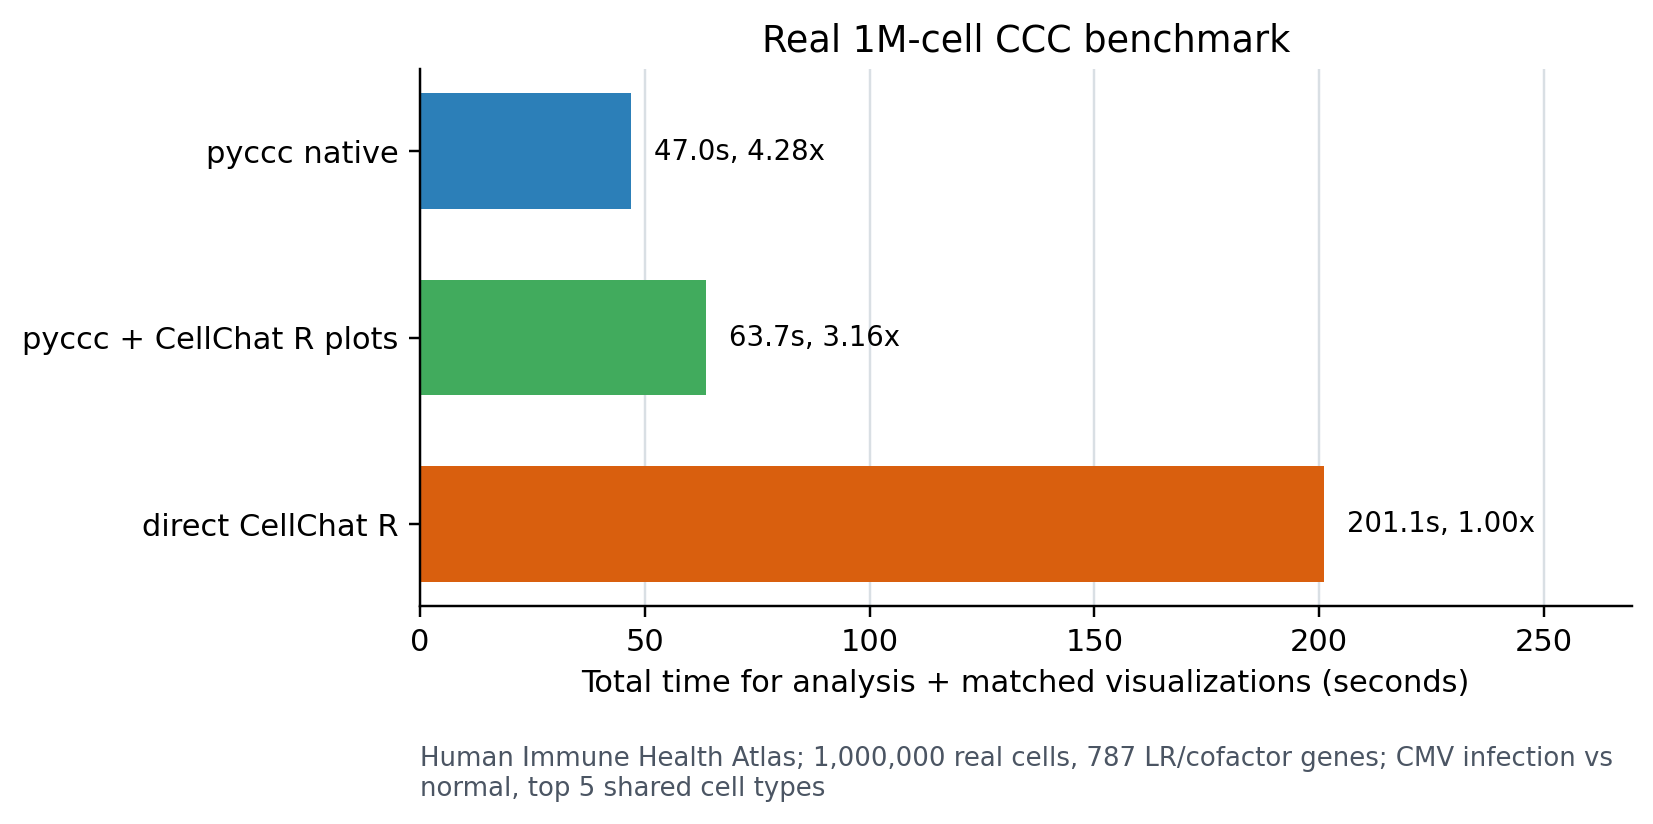
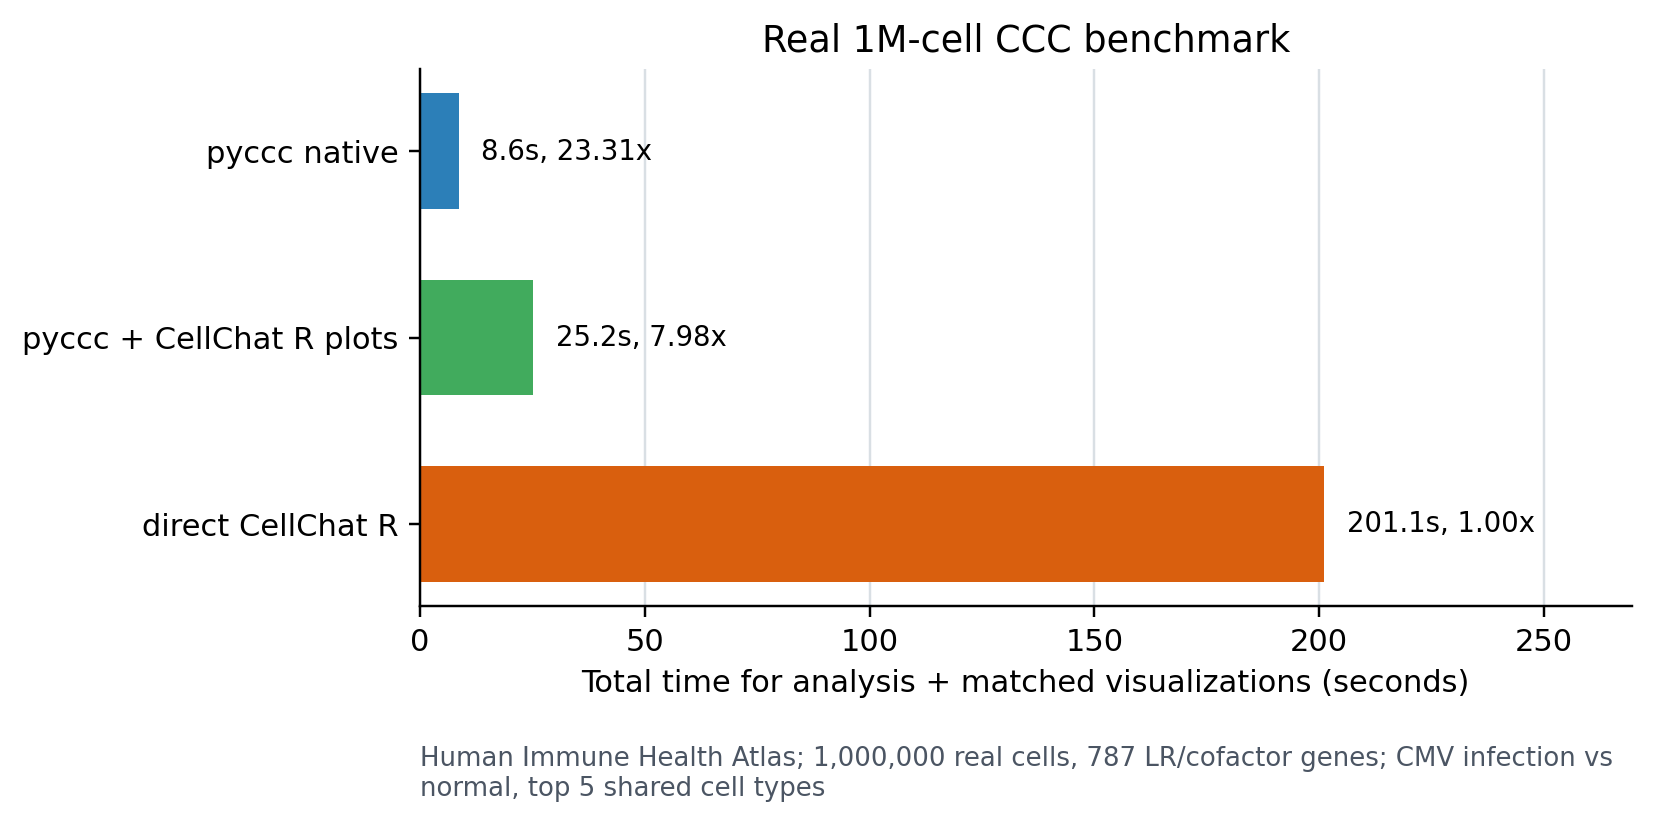
Optimize sparse tri-mean benchmark path

Changed region(s): [[0.2777, 0.091, 0.4936, 0.2731], [0.3085, 0.3337, 0.5554, 0.4854]]

diff --git a/examples/three_way_runtime_benchmark.py b/examples/three_way_runtime_benchmark.py
@@ -213,6 +213,7 @@ def parse_args() -> argparse.Namespace:
     parser.add_argument("--target-cells", type=int, default=1000000)
     parser.add_argument("--min-cells", type=int, default=25000)
     parser.add_argument("--n-groups", type=int, default=12, help="Number of shared groups to keep; use 0 to keep all shared groups.")
+    parser.add_argument("--n-jobs", type=int, default=1, help="Python worker count for pyccc permutation/downsampling paths.")
     parser.add_argument("--random-state", type=int, default=123)
     parser.add_argument("--allow-repeated-cells", action="store_true", help="Allow upsampling by repeating cells when target cells exceed the real filtered dataset size.")
     parser.add_argument("--skip-direct-cellchat", action="store_true")
@@ -252,7 +253,7 @@ def run_cellxgene_adaptive(args: argparse.Namespace, out_dir: Path) -> None:
         rows = run_three_way_for_adata(args, attempt_dir, adata, lr_db, lr_r, scale_label=f"cells_{adata.n_obs}")
         all_rows.append(rows)
         statuses = set(rows["status"].astype(str))
-        if statuses == {"ok"}:
+        if statuses <= {"ok", "skipped"} and "ok" in statuses:
             break
         attempt_cells //= 2
         del adata
@@ -354,7 +355,9 @@ def run_three_way_for_adata(
         ("direct_cellchat", run_direct_cellchat),
     ]:
         if strategy == "direct_cellchat" and args.skip_direct_cellchat:
-            rows.append(record_skip(strategy, scale_label, adata, "Skipped by --skip-direct-cellchat."))
+            row = record_skip(strategy, scale_label, adata, "Skipped by --skip-direct-cellchat.")
+            row.update(runtime_metadata(args))
+            rows.append(row)
             continue
         print(f"Running {strategy} on {adata.n_obs:,} cells", flush=True)
         try:
@@ -362,6 +365,7 @@ def run_three_way_for_adata(
         except Exception as exc:
             row = record_failure(strategy, scale_label, adata, exc)
             (out_dir / f"{strategy}_failure.txt").write_text(traceback.format_exc(), encoding="utf-8")
+        row.update(runtime_metadata(args))
         rows.append(row)
         pd.DataFrame(rows).to_csv(out_dir / "runtime_partial.tsv", sep="\t", index=False)
         gc.collect()
@@ -393,7 +397,9 @@ def run_pyccc_python(args, out_dir: Path, adata, lr_db, lr_path, input_dir, scal
     plot_start = time.perf_counter()
     save_pyccc_plots(out_dir / "plots", res_a, diff)
     plot_seconds = time.perf_counter() - plot_start
-    return record_ok("pyccc_python", scale_label, adata, time.perf_counter() - start, compute_seconds, plot_seconds, export_seconds=0.0, r_seconds=0.0, n_interactions=len(diff.interactions))
+    row = record_ok("pyccc_python", scale_label, adata, time.perf_counter() - start, compute_seconds, plot_seconds, export_seconds=0.0, r_seconds=0.0, n_interactions=len(diff.interactions))
+    row.update(getattr(args, "_last_pyccc_pair_timing", {}))
+    return row
 
 
 def run_pyccc_cellchat_bridge(args, out_dir: Path, adata, lr_db, lr_path, input_dir, scale_label: str) -> dict[str, object]:
@@ -420,7 +426,9 @@ def run_pyccc_cellchat_bridge(args, out_dir: Path, adata, lr_db, lr_path, input_
     run_rscript([single_dir / "pyccc_to_cellchat.R", single_dir, out_dir / "sample_a_cellchat.rds", out_dir / "plots_single"], timeout=args.timeout_seconds)
     run_rscript([merged_dir / "pyccc_to_merged_cellchat.R", merged_dir, out_dir / "merged_cellchat.rds", out_dir / "plots_merged"], timeout=args.timeout_seconds)
     r_seconds = time.perf_counter() - r_start
-    return record_ok("pyccc_cellchat_bridge", scale_label, adata, time.perf_counter() - start, compute_seconds, plot_seconds=0.0, export_seconds=export_seconds, r_seconds=r_seconds, n_interactions=len(diff.interactions))
+    row = record_ok("pyccc_cellchat_bridge", scale_label, adata, time.perf_counter() - start, compute_seconds, plot_seconds=0.0, export_seconds=export_seconds, r_seconds=r_seconds, n_interactions=len(diff.interactions))
+    row.update(getattr(args, "_last_pyccc_pair_timing", {}))
+    return row
 
 
 def run_direct_cellchat(args, out_dir: Path, adata, lr_db, lr_path, input_dir, scale_label: str) -> dict[str, object]:
@@ -474,10 +482,22 @@ def compute_pyccc_pair(args, adata, lr_db: pc.CellChatDB):
         cofactor_hill=1.0,
         population_size=False,
         gene_symbols_key=args.gene_symbols_key,
+        n_jobs=args.n_jobs,
     )
+    start = time.perf_counter()
     res_a = pc.compute_communication(adata, condition=args.condition_a, **kwargs)
+    condition_a_seconds = time.perf_counter() - start
+    start = time.perf_counter()
     res_b = pc.compute_communication(adata, condition=args.condition_b, **kwargs)
+    condition_b_seconds = time.perf_counter() - start
+    start = time.perf_counter()
     diff = pc.compare_communication(res_a, res_b, label_a=args.condition_a, label_b=args.condition_b)
+    compare_seconds = time.perf_counter() - start
+    args._last_pyccc_pair_timing = {
+        "condition_a_seconds": condition_a_seconds,
+        "condition_b_seconds": condition_b_seconds,
+        "compare_seconds": compare_seconds,
+    }
     return res_a, res_b, diff
 
 
@@ -604,6 +624,32 @@ def record_skip(strategy, scale_label, adata, reason: str) -> dict[str, object]:
     row["status"] = "skipped"
     row["error"] = reason
     return row
+
+
+def runtime_metadata(args: argparse.Namespace) -> dict[str, object]:
+    return {
+        "cpu_count": os.cpu_count() or "",
+        "n_jobs": getattr(args, "n_jobs", ""),
+        "omp_num_threads": os.environ.get("OMP_NUM_THREADS", ""),
+        "openblas_num_threads": os.environ.get("OPENBLAS_NUM_THREADS", ""),
+        "mkl_num_threads": os.environ.get("MKL_NUM_THREADS", ""),
+        "numexpr_num_threads": os.environ.get("NUMEXPR_NUM_THREADS", ""),
+        "blas_threads": _blas_thread_summary(),
+    }
+
+
+def _blas_thread_summary() -> str:
+    try:
+        from threadpoolctl import threadpool_info
+    except Exception:
+        return ""
+    parts = []
+    for item in threadpool_info():
+        api = item.get("internal_api") or item.get("user_api") or "unknown"
+        threads = item.get("num_threads", "")
+        prefix = item.get("prefix", "")
+        parts.append(f"{api}:{threads}:{prefix}")
+    return ";".join(parts)
 
 
 def maxrss_mb() -> float:

diff --git a/src/pyccc/analysis.py b/src/pyccc/analysis.py
@@ -3,7 +3,7 @@ from __future__ import annotations
 from concurrent.futures import ThreadPoolExecutor
 from dataclasses import dataclass, field
 from functools import lru_cache
-from typing import Iterable
+from typing import Iterable, Sequence
 import warnings
 
 import numpy as np
@@ -1030,6 +1030,14 @@ def _group_expression_from_labels(
                 means.loc[group] = np.asarray(sub.mean(axis=0)).ravel()
                 pcts.loc[group] = pct
                 continue
+            if aggregate == "tri_mean":
+                means.loc[group] = _sparse_tri_mean(sub)
+                pcts.loc[group] = pct
+                continue
+            if aggregate == "median":
+                means.loc[group] = _sparse_quantiles(sub, [50.0])[0]
+                pcts.loc[group] = pct
+                continue
             if aggregate == "clipped_mean":
                 means.loc[group] = _clipped_sparse_mean(sub, caps=clip_caps)
                 pcts.loc[group] = pct
@@ -1068,6 +1076,47 @@ def _clipped_sparse_mean(x, *, caps: np.ndarray) -> np.ndarray:
 
 def _gated_sparse_mean(x, *, caps: np.ndarray, pct: np.ndarray) -> np.ndarray:
     return _gated_mean_from_all_mean_and_pct(_clipped_sparse_mean(x, caps=caps), pct)
+
+
+def _sparse_tri_mean(x) -> np.ndarray:
+    q1, q2, q3 = _sparse_quantiles(x, [25.0, 50.0, 75.0])
+    return np.asarray((q1 + 2 * q2 + q3) / 4).ravel()
+
+
+def _sparse_quantiles(x, quantiles: Sequence[float]) -> np.ndarray:
+    if x.shape[0] == 0:
+        return np.zeros((len(quantiles), x.shape[1]), dtype=float)
+    x_csc = x.tocsc().astype(float, copy=False)
+    x_csc.eliminate_zeros()
+    if x_csc.data.size and not np.isfinite(x_csc.data).all():
+        return np.percentile(x.toarray(), quantiles, axis=0)
+    out = np.zeros((len(quantiles), x_csc.shape[1]), dtype=float)
+    n_rows = int(x_csc.shape[0])
+    for col in range(x_csc.shape[1]):
+        start, end = x_csc.indptr[col], x_csc.indptr[col + 1]
+        values = np.sort(x_csc.data[start:end])
+        zero_count = n_rows - len(values)
+        negative_count = int(np.searchsorted(values, 0.0, side="left"))
+        for row, quantile in enumerate(quantiles):
+            position = (n_rows - 1) * float(quantile) / 100.0
+            lower = int(np.floor(position))
+            upper = int(np.ceil(position))
+            lower_value = _sparse_sorted_value(values, lower, zero_count=zero_count, negative_count=negative_count)
+            if lower == upper:
+                out[row, col] = lower_value
+            else:
+                upper_value = _sparse_sorted_value(values, upper, zero_count=zero_count, negative_count=negative_count)
+                out[row, col] = lower_value + (position - lower) * (upper_value - lower_value)
+    return out
+
+
+def _sparse_sorted_value(values: np.ndarray, index: int, *, zero_count: int, negative_count: int) -> float:
+    if index < negative_count:
+        return float(values[index])
+    zero_end = negative_count + zero_count
+    if index < zero_end:
+        return 0.0
+    return float(values[index - zero_count])
 
 
 def _gated_mean_from_all_mean_and_pct(all_mean: np.ndarray, pct: np.ndarray) -> np.ndarray:

diff --git a/tests/test_core.py b/tests/test_core.py
@@ -447,6 +447,35 @@ def test_clipped_mean_matches_sparse():
     pd.testing.assert_frame_equal(dense.interactions[cols], sparse_res.interactions[cols])
 
 
+def test_tri_mean_matches_sparse():
+    adata = make_adata()
+    lr = pc.toy_lr_table()
+    dense = pc.compute_communication(adata, "cell_type", lr, min_pct=0.0, aggregate="tri_mean")
+
+    sparse_adata = adata.copy()
+    sparse_adata.X = sparse.csr_matrix(sparse_adata.X)
+    sparse_res = pc.compute_communication(sparse_adata, "cell_type", lr, min_pct=0.0, aggregate="tri_mean")
+
+    cols = ["source", "target", "ligand", "receptor", "prob"]
+    pd.testing.assert_frame_equal(dense.interactions[cols], sparse_res.interactions[cols])
+
+
+def test_sparse_quantiles_match_dense_with_implicit_zeros():
+    arr = np.array(
+        [
+            [0.0, -2.0, 0.0],
+            [0.0, 0.0, 4.0],
+            [3.0, 0.0, 0.0],
+            [9.0, 5.0, 8.0],
+            [0.0, 0.0, 0.0],
+        ]
+    )
+    quantiles = [25.0, 50.0, 75.0]
+    expected = np.percentile(arr, quantiles, axis=0)
+    observed = analysis._sparse_quantiles(sparse.csr_matrix(arr), quantiles)
+    np.testing.assert_allclose(observed, expected)
+
+
 def test_gated_mean_matches_sparse():
     adata = make_adata()
     lr = pc.toy_lr_table()

diff --git a/docs/million_cell_scaling.md b/docs/million_cell_scaling.md
@@ -28,9 +28,38 @@ and matched visualization workflow through the three strategies shown in the
 README runtime figure. The detailed local result table is
 `data/runtime_benchmark/human_immune_health_atlas_real1m_raw/adaptive_runtime.tsv`.
 
+## Current Optimization Snapshot
+
+The current pyccc runtime figure uses the same 1,000,000-cell sample and reuses
+the original direct CellChat R row because the optimization only changes pyccc's
+sparse tri-mean aggregation path. The benchmark was rerun with
+`OPENBLAS_NUM_THREADS=64`, `OMP_NUM_THREADS=64`, `MKL_NUM_THREADS=64`,
+`NUMEXPR_NUM_THREADS=64`, and `pyccc n_jobs=1`.
+
+| Strategy | Pre-optimization total seconds | Current total seconds | Current compute seconds | Speedup vs pre-optimization | Speedup vs direct CellChat |
+| --- | ---: | ---: | ---: | ---: | ---: |
+| pyccc native | 47.014 | 8.627 | 7.188 | 5.45x | 23.31x |
+| pyccc + CellChat R plots | 63.692 | 25.190 | 7.246 | 2.53x | 7.98x |
+| direct CellChat R | 201.096 | 201.096 | 162.847 | 1.00x | 1.00x |
+
+The main pyccc bottleneck before this change was CellChat-compatible tri-mean
+expression aggregation on sparse input. A profile of the old path attributed
+about 39 seconds of the 52-second profiled pyccc compute run to
+`np.percentile`/`numpy.ndarray.partition` after densifying each group matrix.
+The optimized path computes exact zero-aware sparse quantiles for `tri_mean`,
+reducing the 1M-cell pyccc compute time from about 45.6 seconds to about
+7.2 seconds on this run.
+
+A compute-only debug run with `pyccc n_jobs=64` took 7.445 seconds versus
+7.438 seconds with `n_jobs=1` on the same loaded AnnData object, confirming that
+`n_jobs` is not a meaningful control for this regular, non-permutation path.
+Use BLAS/OpenMP thread controls for this benchmark; reserve `n_jobs` scaling
+tests for permutation or repeated-downsampling workflows.
+
 ## Reproduce
 
 ```bash
+OPENBLAS_NUM_THREADS=64 OMP_NUM_THREADS=64 MKL_NUM_THREADS=64 NUMEXPR_NUM_THREADS=64 \
 uv run python examples/three_way_runtime_benchmark.py \
   --mode cellxgene \
   --out-dir data/runtime_benchmark/human_immune_health_atlas_real1m_raw \
@@ -44,6 +73,7 @@ uv run python examples/three_way_runtime_benchmark.py \
   --target-cells 1000000 \
   --min-cells 125000 \
   --n-groups 5 \
+  --n-jobs 1 \
   --timeout-seconds 600
 ```
 

diff --git a/README.md b/README.md
@@ -46,6 +46,7 @@ differential, and matched visualization workflow faster through pyccc:
 Reproduce the benchmark:
 
 ```bash
+OPENBLAS_NUM_THREADS=64 OMP_NUM_THREADS=64 MKL_NUM_THREADS=64 NUMEXPR_NUM_THREADS=64 \
 uv run python examples/three_way_runtime_benchmark.py \
   --mode cellxgene \
   --out-dir data/runtime_benchmark/human_immune_health_atlas_real1m_raw \
@@ -59,6 +60,7 @@ uv run python examples/three_way_runtime_benchmark.py \
   --target-cells 1000000 \
   --min-cells 125000 \
   --n-groups 5 \
+  --n-jobs 1 \
   --timeout-seconds 600
 ```
 

diff --git a/docs/reproducibility.md b/docs/reproducibility.md
@@ -52,6 +52,7 @@ a valid direct CellChat input. The benchmark therefore uses `raw.X` for all
 three strategies:
 
 ```bash
+OPENBLAS_NUM_THREADS=64 OMP_NUM_THREADS=64 MKL_NUM_THREADS=64 NUMEXPR_NUM_THREADS=64 \
 uv run python examples/three_way_runtime_benchmark.py \
   --mode cellxgene \
   --out-dir data/runtime_benchmark/human_immune_health_atlas_real1m_raw \
@@ -65,6 +66,7 @@ uv run python examples/three_way_runtime_benchmark.py \
   --target-cells 1000000 \
   --min-cells 125000 \
   --n-groups 5 \
+  --n-jobs 1 \
   --timeout-seconds 600
 ```
 
